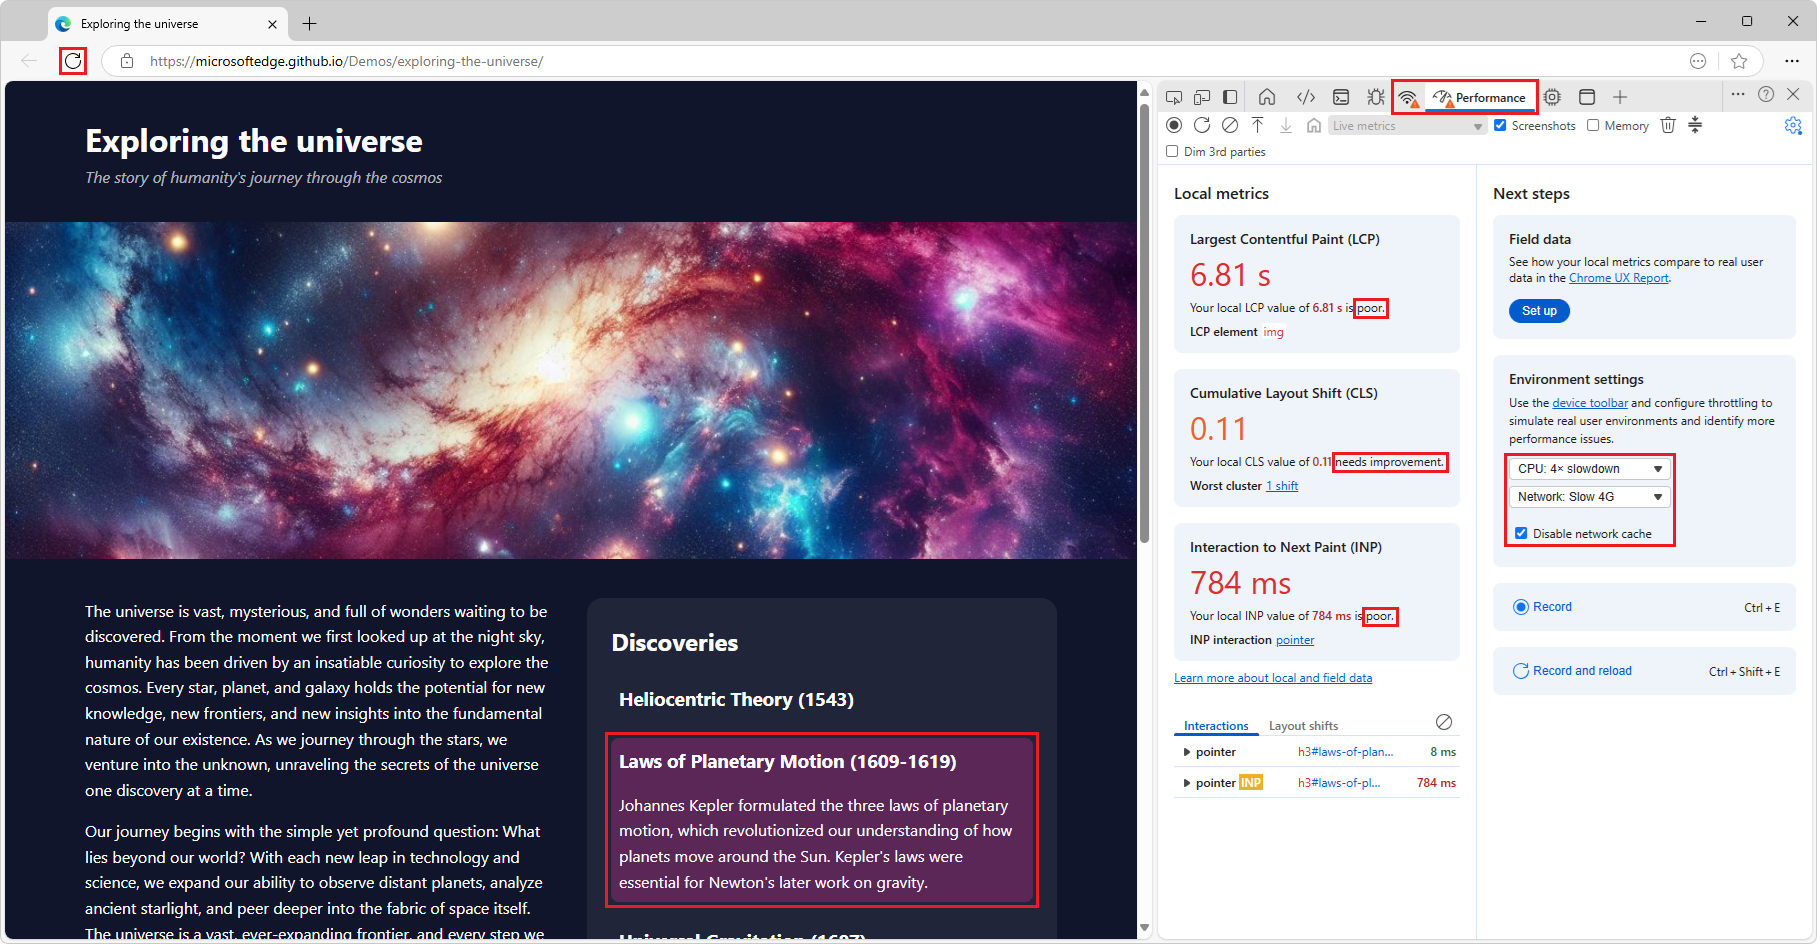
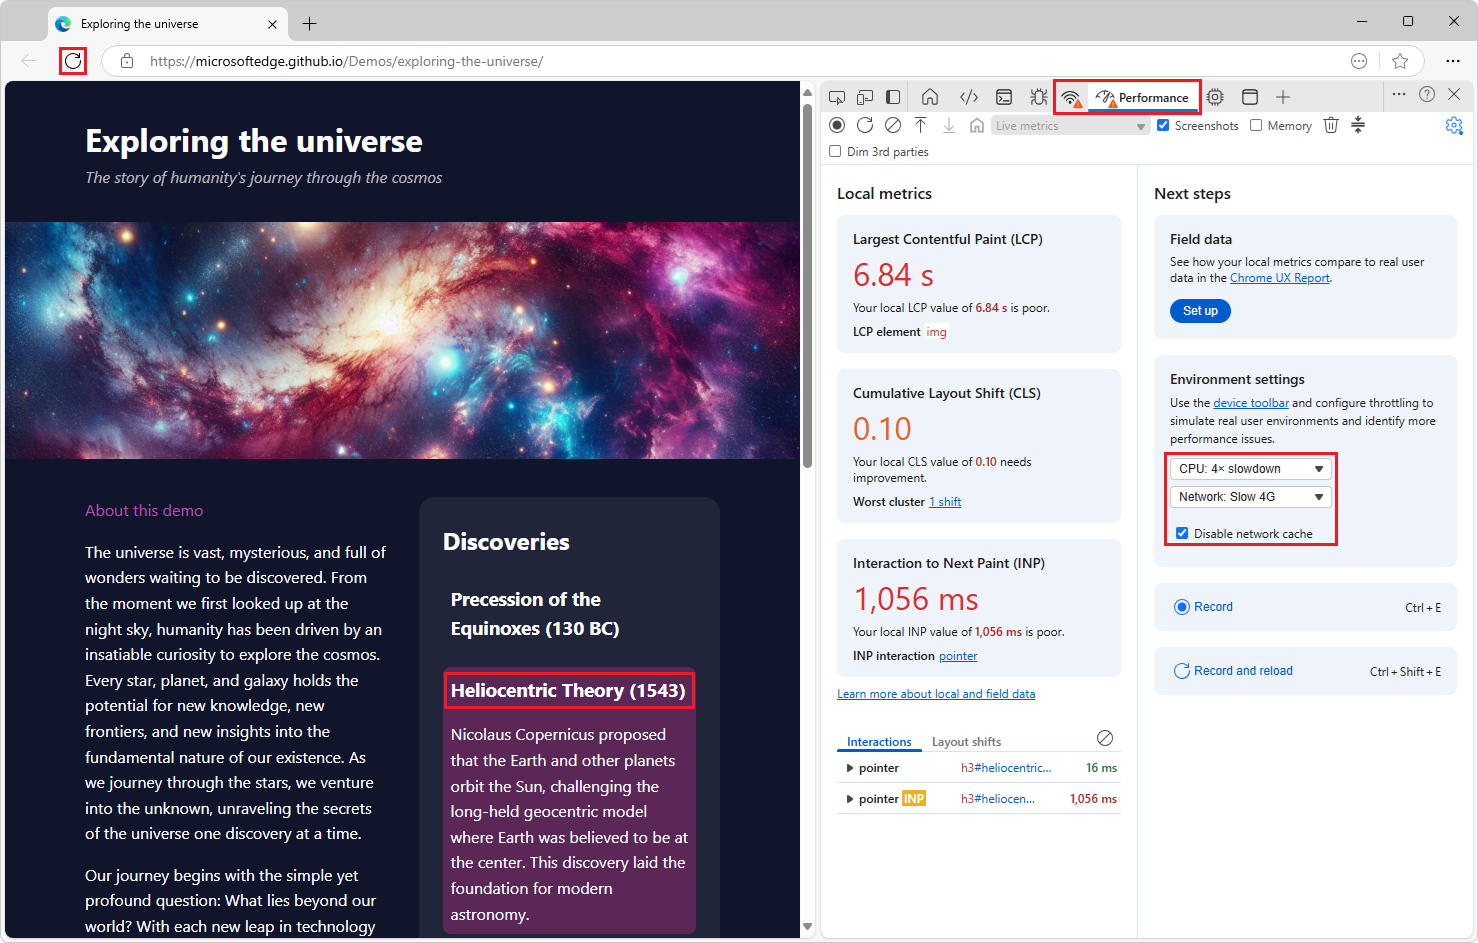
Update png, narrower

diff --git a/exploring-the-universe/index.html b/exploring-the-universe/index.html
@@ -197,7 +197,7 @@
            this page, which is the whole point of this demo webpage. -->
       <div class="accordion">
         <div class="accordion-panel">
-          <h3>Precession of the Equinoxes (162-127 BC)</h3>
+          <h3>Precession of the Equinoxes (130 BC)</h3>
           <p>Hipparchus discovered the precession of the equinoxes, by measuring the longitude of the star Spica and 
             comparing previous measurements. He determined that the equinoxes move through the zodiac by around 1° per 
             century, and invented the astrolabe and armillary sphere.</p>
@@ -209,13 +209,13 @@
             astronomy.</p>
         </div>
         <div class="accordion-panel">
-          <h3>Laws of Planetary Motion (1609-1619)</h3>
+          <h3>Laws of Planetary Motion (1619)</h3>
           <p>Johannes Kepler formulated the three laws of planetary motion, which revolutionized our understanding of
             how planets move around the Sun. Kepler's laws were essential for Newton's later work on gravity.</p>
         </div>
         <div class="accordion-panel">
           <h3>Universal Gravitation (1687)</h3>
-          <p>Isaac Newton published the "Principia," where he formulated the law of universal gravitation, showing that 
+          <p>Isaac Newton published the <i>Principia</i>, where he formulated the law of universal gravitation, showing that 
             every object in the universe exerts an attractive force on every other object. This discovery explained
             planetary motion and laid the groundwork for classical physics.</p>
         </div>

diff --git a/exploring-the-universe/README.md b/exploring-the-universe/README.md
@@ -26,7 +26,7 @@ To produce a **poor** or **needs improvement** metric on the **LCP**, **CLS**, a
 
 1. In the **Activity Bar** at top, select the **Performance** tool.
 
-1. Make the demo page pane wide, such as 60% of the width of the window.
+1. Maximize the window, and make the demo page pane wide, such as 60% of the width of the window.
 
    If the demo page pane is too narrow, some cards might continue showing **good**, with a green value, which is not the intended result.
 
@@ -44,13 +44,13 @@ To produce a **poor** or **needs improvement** metric on the **LCP**, **CLS**, a
 
    The **LCP** and **CLS** cards show an orange value and **needs improvement**, or a red value and **poor**, instead of a green value and **good**.
 
-1. If the **LCP** or **CLS** card remains green and says **good** after the galaxy image finishes rendering, make the demo page pane wider.
+1. If the **LCP** or **CLS** card remains green and says **good** after the galaxy image finishes rendering, maximize the window and make the demo page pane wider.
 
    The **LCP** card shows that the galaxy image took a long time to load.  The card shows an orange value and **needs improvement**, or a red value and **poor**, instead of a green value and **good**.  The engine identifies this image as the largest item to be rendered.
 
    The **CLS** card illustrates that sudden, unexpected jumps in the layout can negatively impact users.  This is also due to the image taking some time to load.  By design, the demo webpage neglects to specify a height for the image, and so the page initially loads without reserving much space for the image.  When the image starts appearing, the content below it suddenly jumps down.
 
-1. After the galaxy image finishes rendering, in the rendered demo page, click one of the headings in the right-hand **Discoveries** column, such as **Laws of Planetary Motion (1609-1619)**.
+1. After the galaxy image finishes rendering, in the rendered demo page, click one of the headings in the right-hand **Discoveries** column, such as **Heliocentric Theory (1543)**.
 
    The **INP** card changes from not showing a value, to showing an orange value and **needs improvement**, or a red value and **poor**.  An **INP** value is displayed.
 
